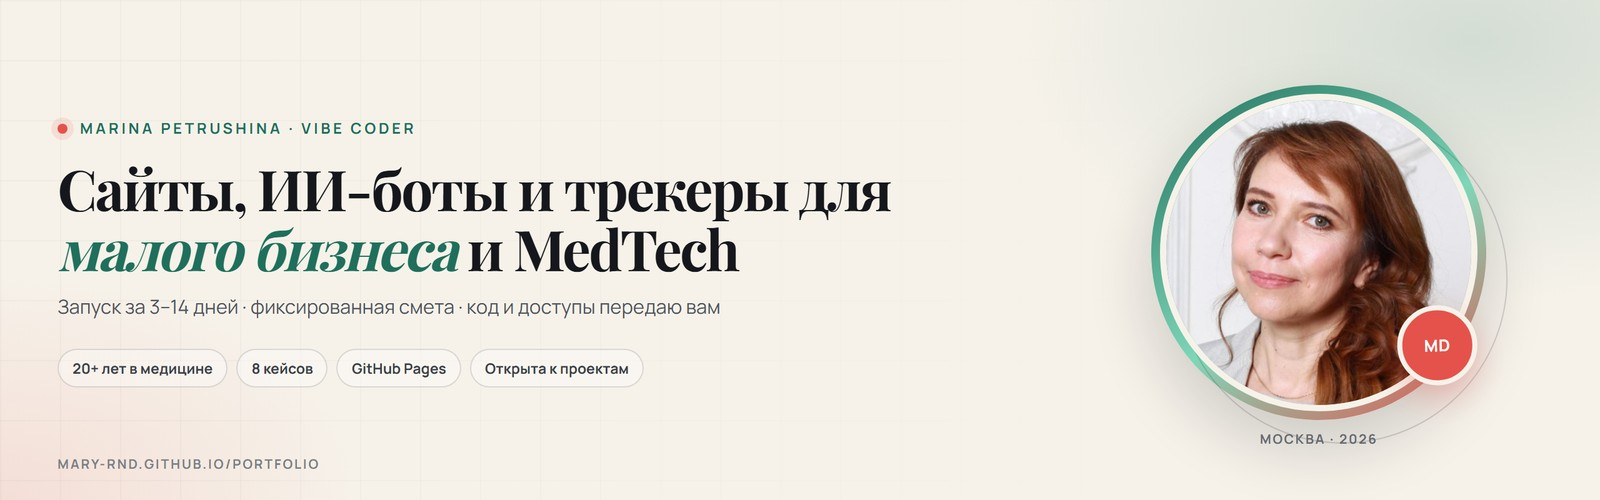
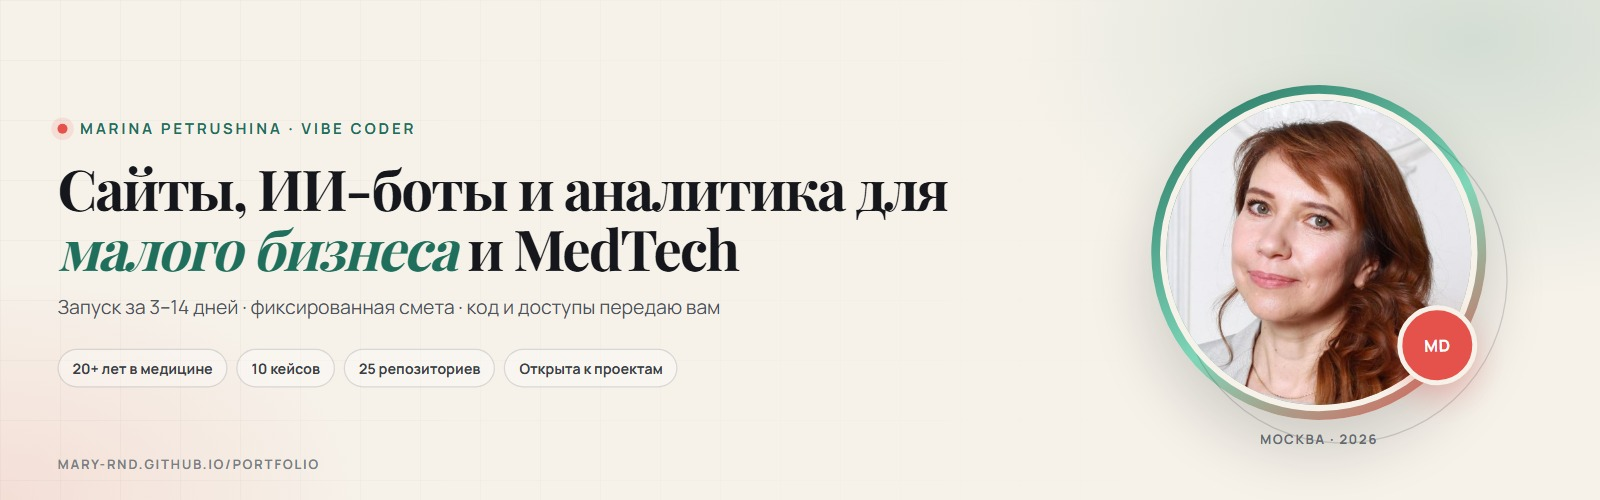
Refresh profile: 10 cases, 25 repos, MedTech and analytics focus

diff --git a/README.md b/README.md
@@ -1,14 +1,15 @@
 <div align="center">
 
 <a href="https://mary-rnd.github.io/portfolio/">
-  <img src="assets/banner.webp" alt="Марина Петрушина — сайты, ИИ-боты и трекеры для малого бизнеса и MedTech" width="100%">
+  <img src="assets/banner.webp" alt="Марина Петрушина — сайты, ИИ-боты, трекеры и аналитика для малого бизнеса и MedTech" width="100%">
 </a>
 
 # Марина Петрушина
 
-**Вайб-кодер и веб-разработчик.** Делаю сайты, ИИ-ботов, трекеры и автоматизацию для малого бизнеса и MedTech.
+**Вайб-кодер и веб-разработчик.** Делаю сайты, ИИ-ботов, трекеры, дашборды и аналитику для малого бизнеса и MedTech.
 
-[![Портфолио](https://img.shields.io/badge/Portfolio-8%20%D0%BA%D0%B5%D0%B9%D1%81%D0%BE%D0%B2-1f6f5c?style=for-the-badge&logo=githubpages&logoColor=white)](https://mary-rnd.github.io/portfolio/)
+[![Портфолио](https://img.shields.io/badge/Portfolio-10%20%D0%BA%D0%B5%D0%B9%D1%81%D0%BE%D0%B2-1f6f5c?style=for-the-badge&logo=githubpages&logoColor=white)](https://mary-rnd.github.io/portfolio/)
+[![GitHub](https://img.shields.io/badge/GitHub-25%20repositories-181717?style=for-the-badge&logo=github&logoColor=white)](https://github.com/Mary-RND?tab=repositories)
 [![Telegram](https://img.shields.io/badge/Telegram-%40marypetrova6-229ED9?style=for-the-badge&logo=telegram&logoColor=white)](https://t.me/marypetrova6)
 [![VK](https://img.shields.io/badge/VK-%40marina__petrushina-0077FF?style=for-the-badge&logo=vk&logoColor=white)](https://vk.com/marina_petrushina)
 [![WhatsApp](https://img.shields.io/badge/WhatsApp-%2B7%20985%20728--66--55-25D366?style=for-the-badge&logo=whatsapp&logoColor=white)](https://wa.me/79857286655)
@@ -20,7 +21,9 @@
 >
 > 20+ лет в медицинском бизнесе и 10+ лет клинической практики. Понимаю, где данные, деньги и ответственность, — и собираю продукты, которые решают задачу, а не просто красиво выглядят.
 
-**Стек:** HTML/CSS/JS · React · Next.js · TypeScript · Three.js · Python · GigaChat и OpenAI API · VK/Telegram-боты · GitHub Pages.
+**Стек:** HTML/CSS/JS · React · Next.js · TypeScript · Three.js / React Three Fiber · Tailwind CSS · Python · pandas · SQLite · PWA · GitHub Pages.
+
+**ИИ:** GigaChat · OpenAI · Qwen · DeepSeek · Claude · Gemini · Ollama · RAG и базы знаний · боты Telegram и VK.
 
 ---
 
@@ -45,7 +48,7 @@
 <a href="https://mary-rnd.github.io/portfolio/"><img src="assets/cases/portfolio.webp" alt="Портфолио вайб-кодера" width="100%"></a>
 
 **Портфолио — этот сайт**<br>
-<sub>8 кейсов, фильтры, модалки, пакеты и форма заявки. Editorial-дизайн, HTML/CSS/JS, GitHub Pages.</sub><br>
+<sub>10 кейсов, фильтры, модалки, пакеты и форма заявки. Editorial-дизайн, HTML/CSS/JS, GitHub Pages.</sub><br>
 <a href="https://mary-rnd.github.io/portfolio/">Открыть</a> · <a href="https://github.com/Mary-RND/portfolio">Код</a>
 
 </td>
@@ -103,8 +106,23 @@
 
 ---
 
+## Медицина и аналитика
+
+Отдельное направление: клиники, медизделия, данные и закупки.
+
+- **[MedTech-лендинг](https://mary-rnd.github.io/medtech-landing/)** — сайты практик, ИИ-боты записи, дашборды закупок и обезличивание данных. Медицинская палитра, 152-ФЗ. [Код](https://github.com/Mary-RND/medtech-landing)
+- **[Сайт пластического хирурга](https://mary-rnd.github.io/plastic-surgery-landing/)** — Next.js, React Three Fiber, 3D-герой и прайс.
+- **[Дашборд закупок MedTech](https://mary-rnd.github.io/procurement-demo/)** — сравнение предложений поставщиков и сводка по закупкам.
+- **[Рынок инфузионных насосов](https://mary-rnd.github.io/infusion-pumps-dashboard/)** — 200 сделок, 108 больниц, 59 регионов: лидеры, цены и спрос.
+- **[Обезличиватель данных](https://github.com/Mary-RND/data-depersonalizer)** — Excel/Word, офлайн, обратная конвертация по ключу.
+
+**Фокус:** 152-ФЗ, клинические процессы, аналитика закупок и KPI.
+
+---
+
 ## Ещё кейсы
 
+- [MedTech-лендинг](https://mary-rnd.github.io/medtech-landing/) — отдельная посадочная для клиник: сайты, боты, дашборды и работа с данными. [Код](https://github.com/Mary-RND/medtech-landing)
 - [Task Dispatcher — командный центр входящих задач](https://mary-rnd.github.io/task-dispatcher/) — KPI, фокус дня, нагрузка команды, поиск дублей и сводка для планёрки. [Код](https://github.com/Mary-RND/task-dispatcher)
 - [EventFlow — участники мероприятия](https://mary-rnd.github.io/eventflow/) — CRUD, поиск и фильтры, импорт CSV с предпросмотром ошибок, бэкапы JSON. [Код](https://github.com/Mary-RND/eventflow)
 - [Route Planner — планировщик путешествий](https://mary-rnd.github.io/route-planner/) — маршрут по дням, бюджет, бронирования и чек-лист, офлайн. [Код](https://github.com/Mary-RND/route-planner)
@@ -113,9 +131,9 @@
 - [Аналитика рынка инфузионных насосов](https://mary-rnd.github.io/infusion-pumps-dashboard/) — конкуренты, цены, закупки, 2025–2026. [Код](https://github.com/Mary-RND/infusion-pumps-dashboard)
 - [ИИ-бот для VK](https://github.com/Mary-RND/vk-ai-assistant) — GigaChat API, 20 сообщений контекста, fallback на менеджера.
 - [Обезличиватель данных](https://github.com/Mary-RND/data-depersonalizer) — Excel/Word, обратная конвертация по ключу, 152-ФЗ.
-- [Sport Land](https://mary-rnd.github.io/sport-land-v2-landing/) — лендинг сети фитнес-клубов: программы, тренеры, запись. [Код](https://github.com/Mary-RND/sport-land-v2-landing)
+- [SportLand v2](https://mary-rnd.github.io/sport-land-v2-landing/) — лендинг вебинара «5 привычек»: прогрев, программа, кейсы до/после, форма записи. [Код](https://github.com/Mary-RND/sport-land-v2-landing)
 
-[Все публичные проекты →](https://github.com/Mary-RND?tab=repositories)
+[Все публичные проекты →](https://github.com/Mary-RND?tab=repositories) · 25 репозиториев, 19 публичных.
 
 ---
 
@@ -136,7 +154,8 @@
 - **20+ лет в медицинском бизнесе** и **10+ лет клинической практики**, MD.
 - Основатель и руководитель R&D-центра **AI Predictive Medicine Lab**.
 - Понимаю **152-ФЗ**, обезличивание данных, клинические и закупочные процессы.
-- Делаю не «сайт про медицину», а инструменты для реальных процессов: заявки, записи, аналитика, отчётность.
+- Делаю не «сайт про медицину», а инструменты для реальных процессов: заявки, записи, закупки, аналитика, отчётность.
+- **Аналитика:** дашборды закупок, рынка и KPI — на данных, а не на ощущениях.
 
 ---
 
@@ -152,6 +171,7 @@
 ## Контакты
 
 - **Портфолио:** [mary-rnd.github.io/portfolio](https://mary-rnd.github.io/portfolio/)
+- **MedTech-лендинг:** [mary-rnd.github.io/medtech-landing](https://mary-rnd.github.io/medtech-landing/)
 - **Telegram:** [@marypetrova6](https://t.me/marypetrova6)
 - **VK:** [@marina_petrushina](https://vk.com/marina_petrushina)
 - **WhatsApp:** [+7 985 728-66-55](https://wa.me/79857286655)
